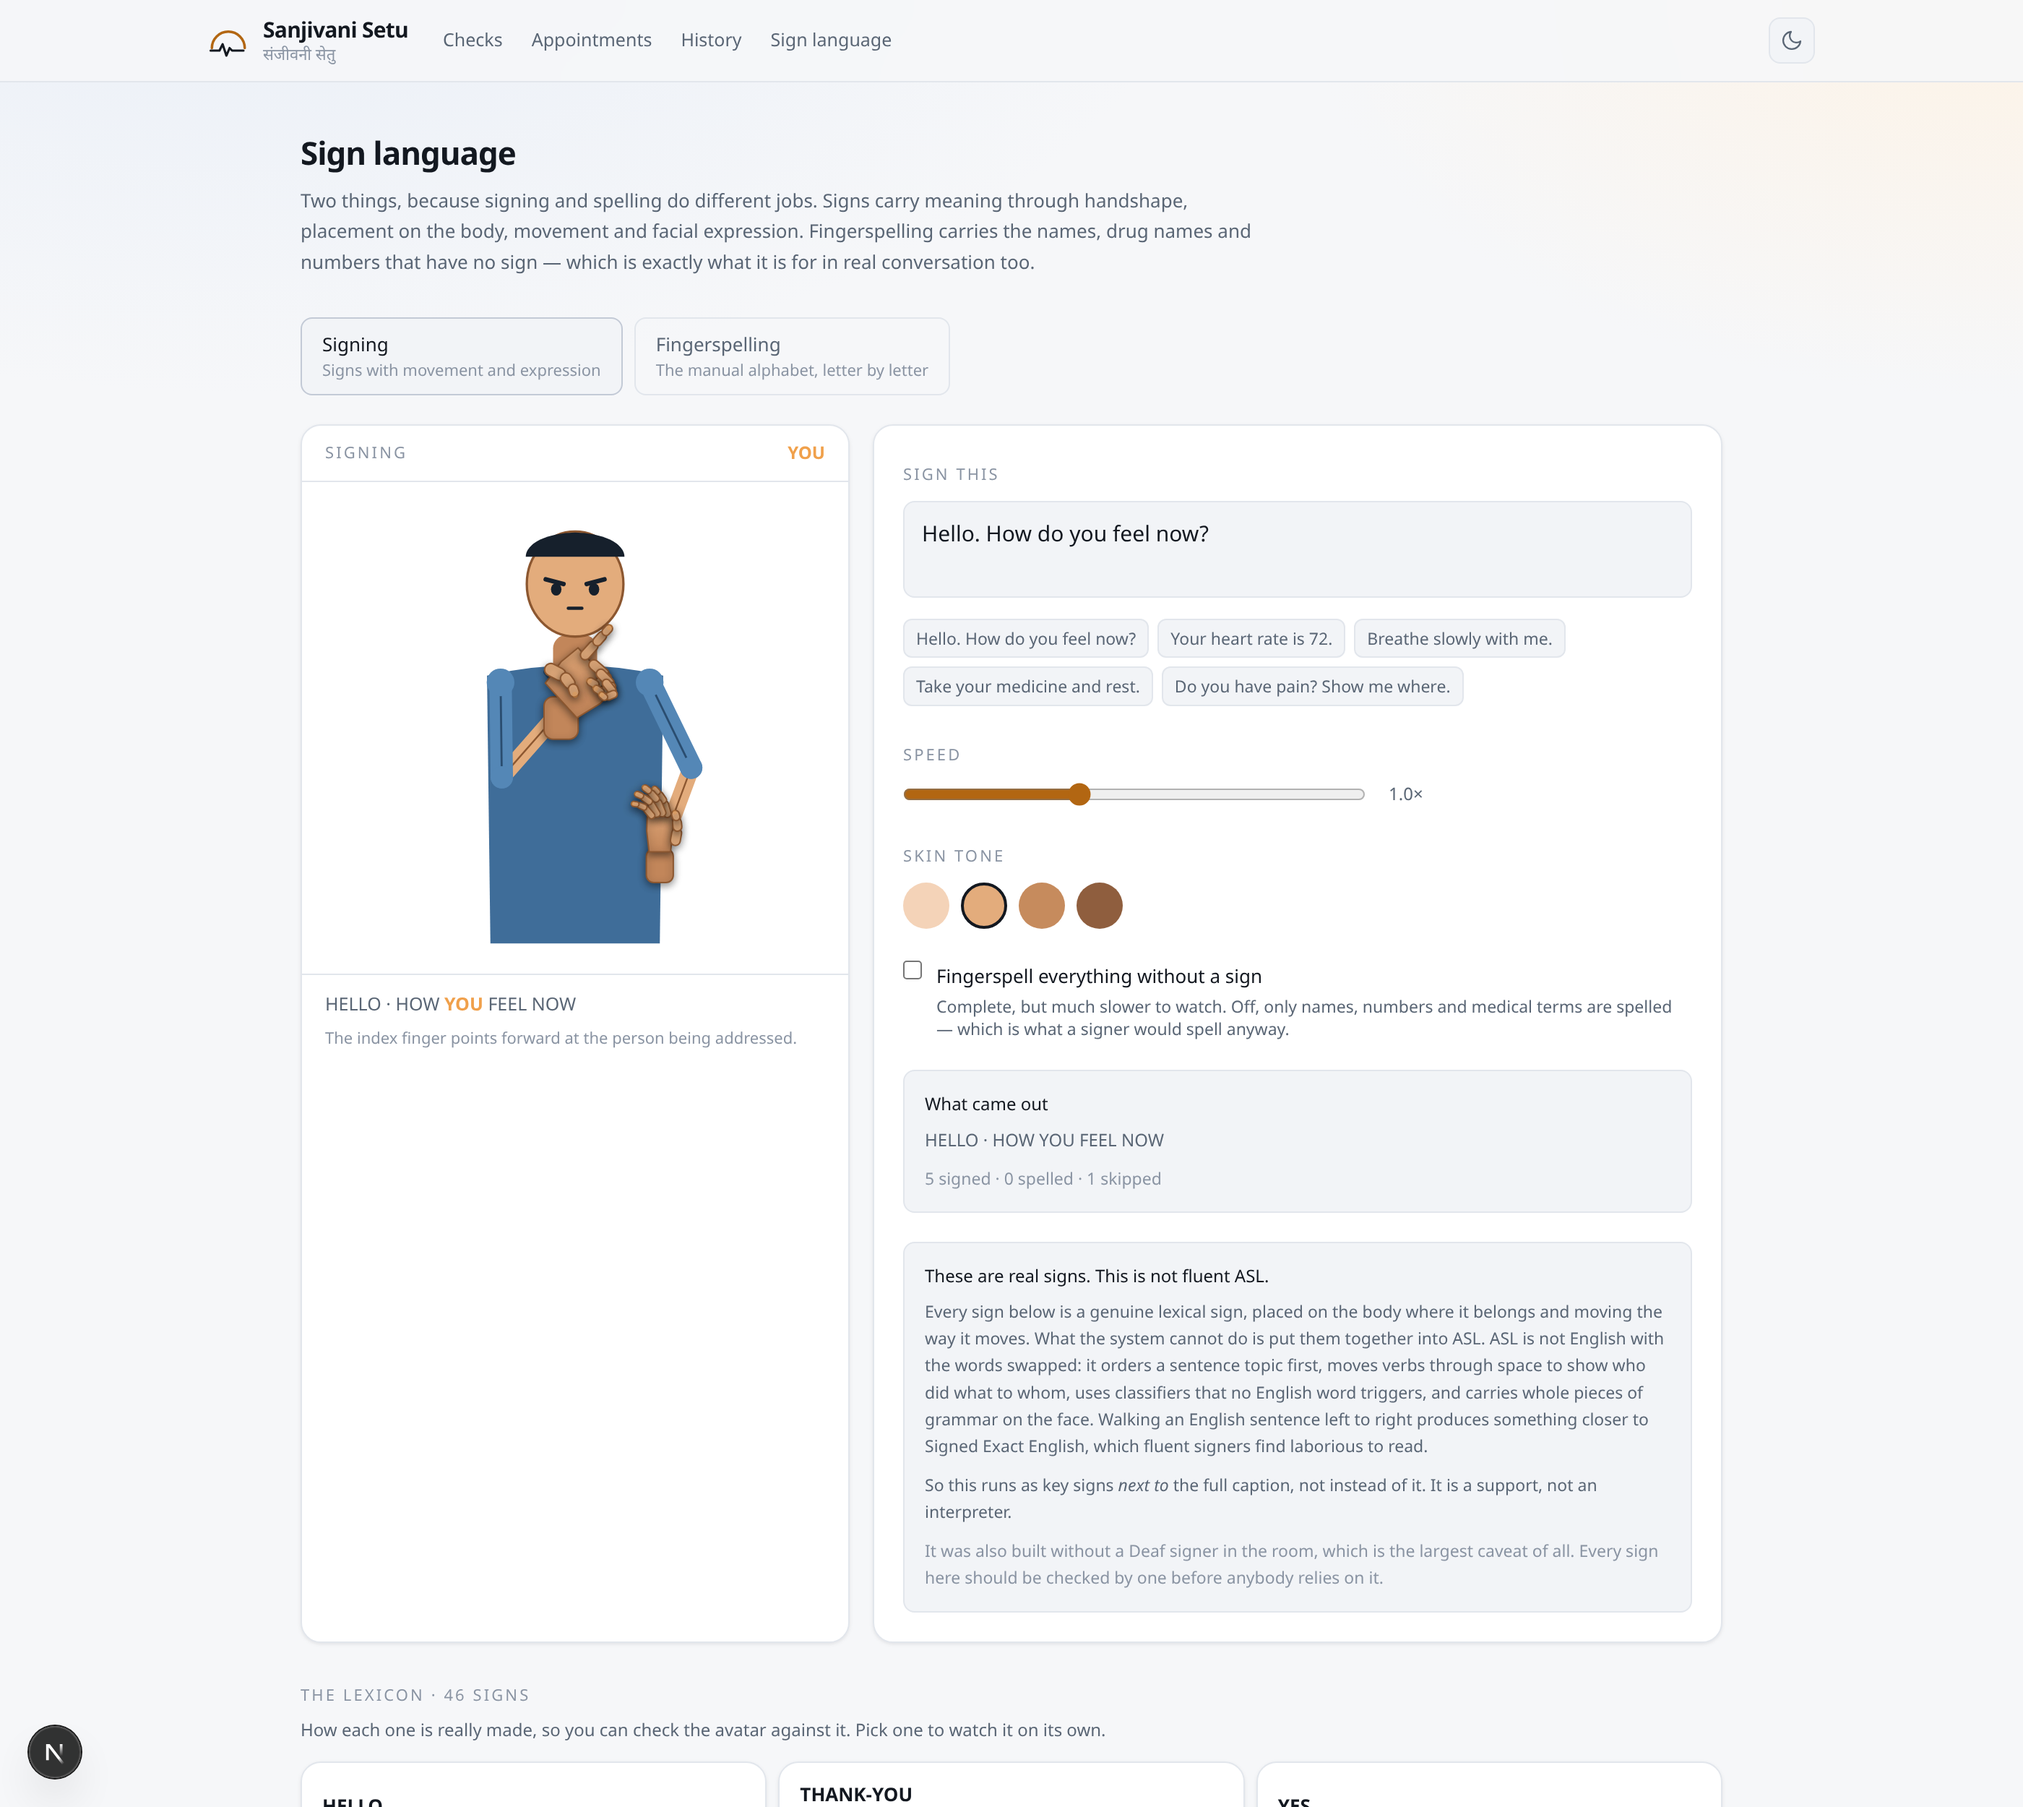
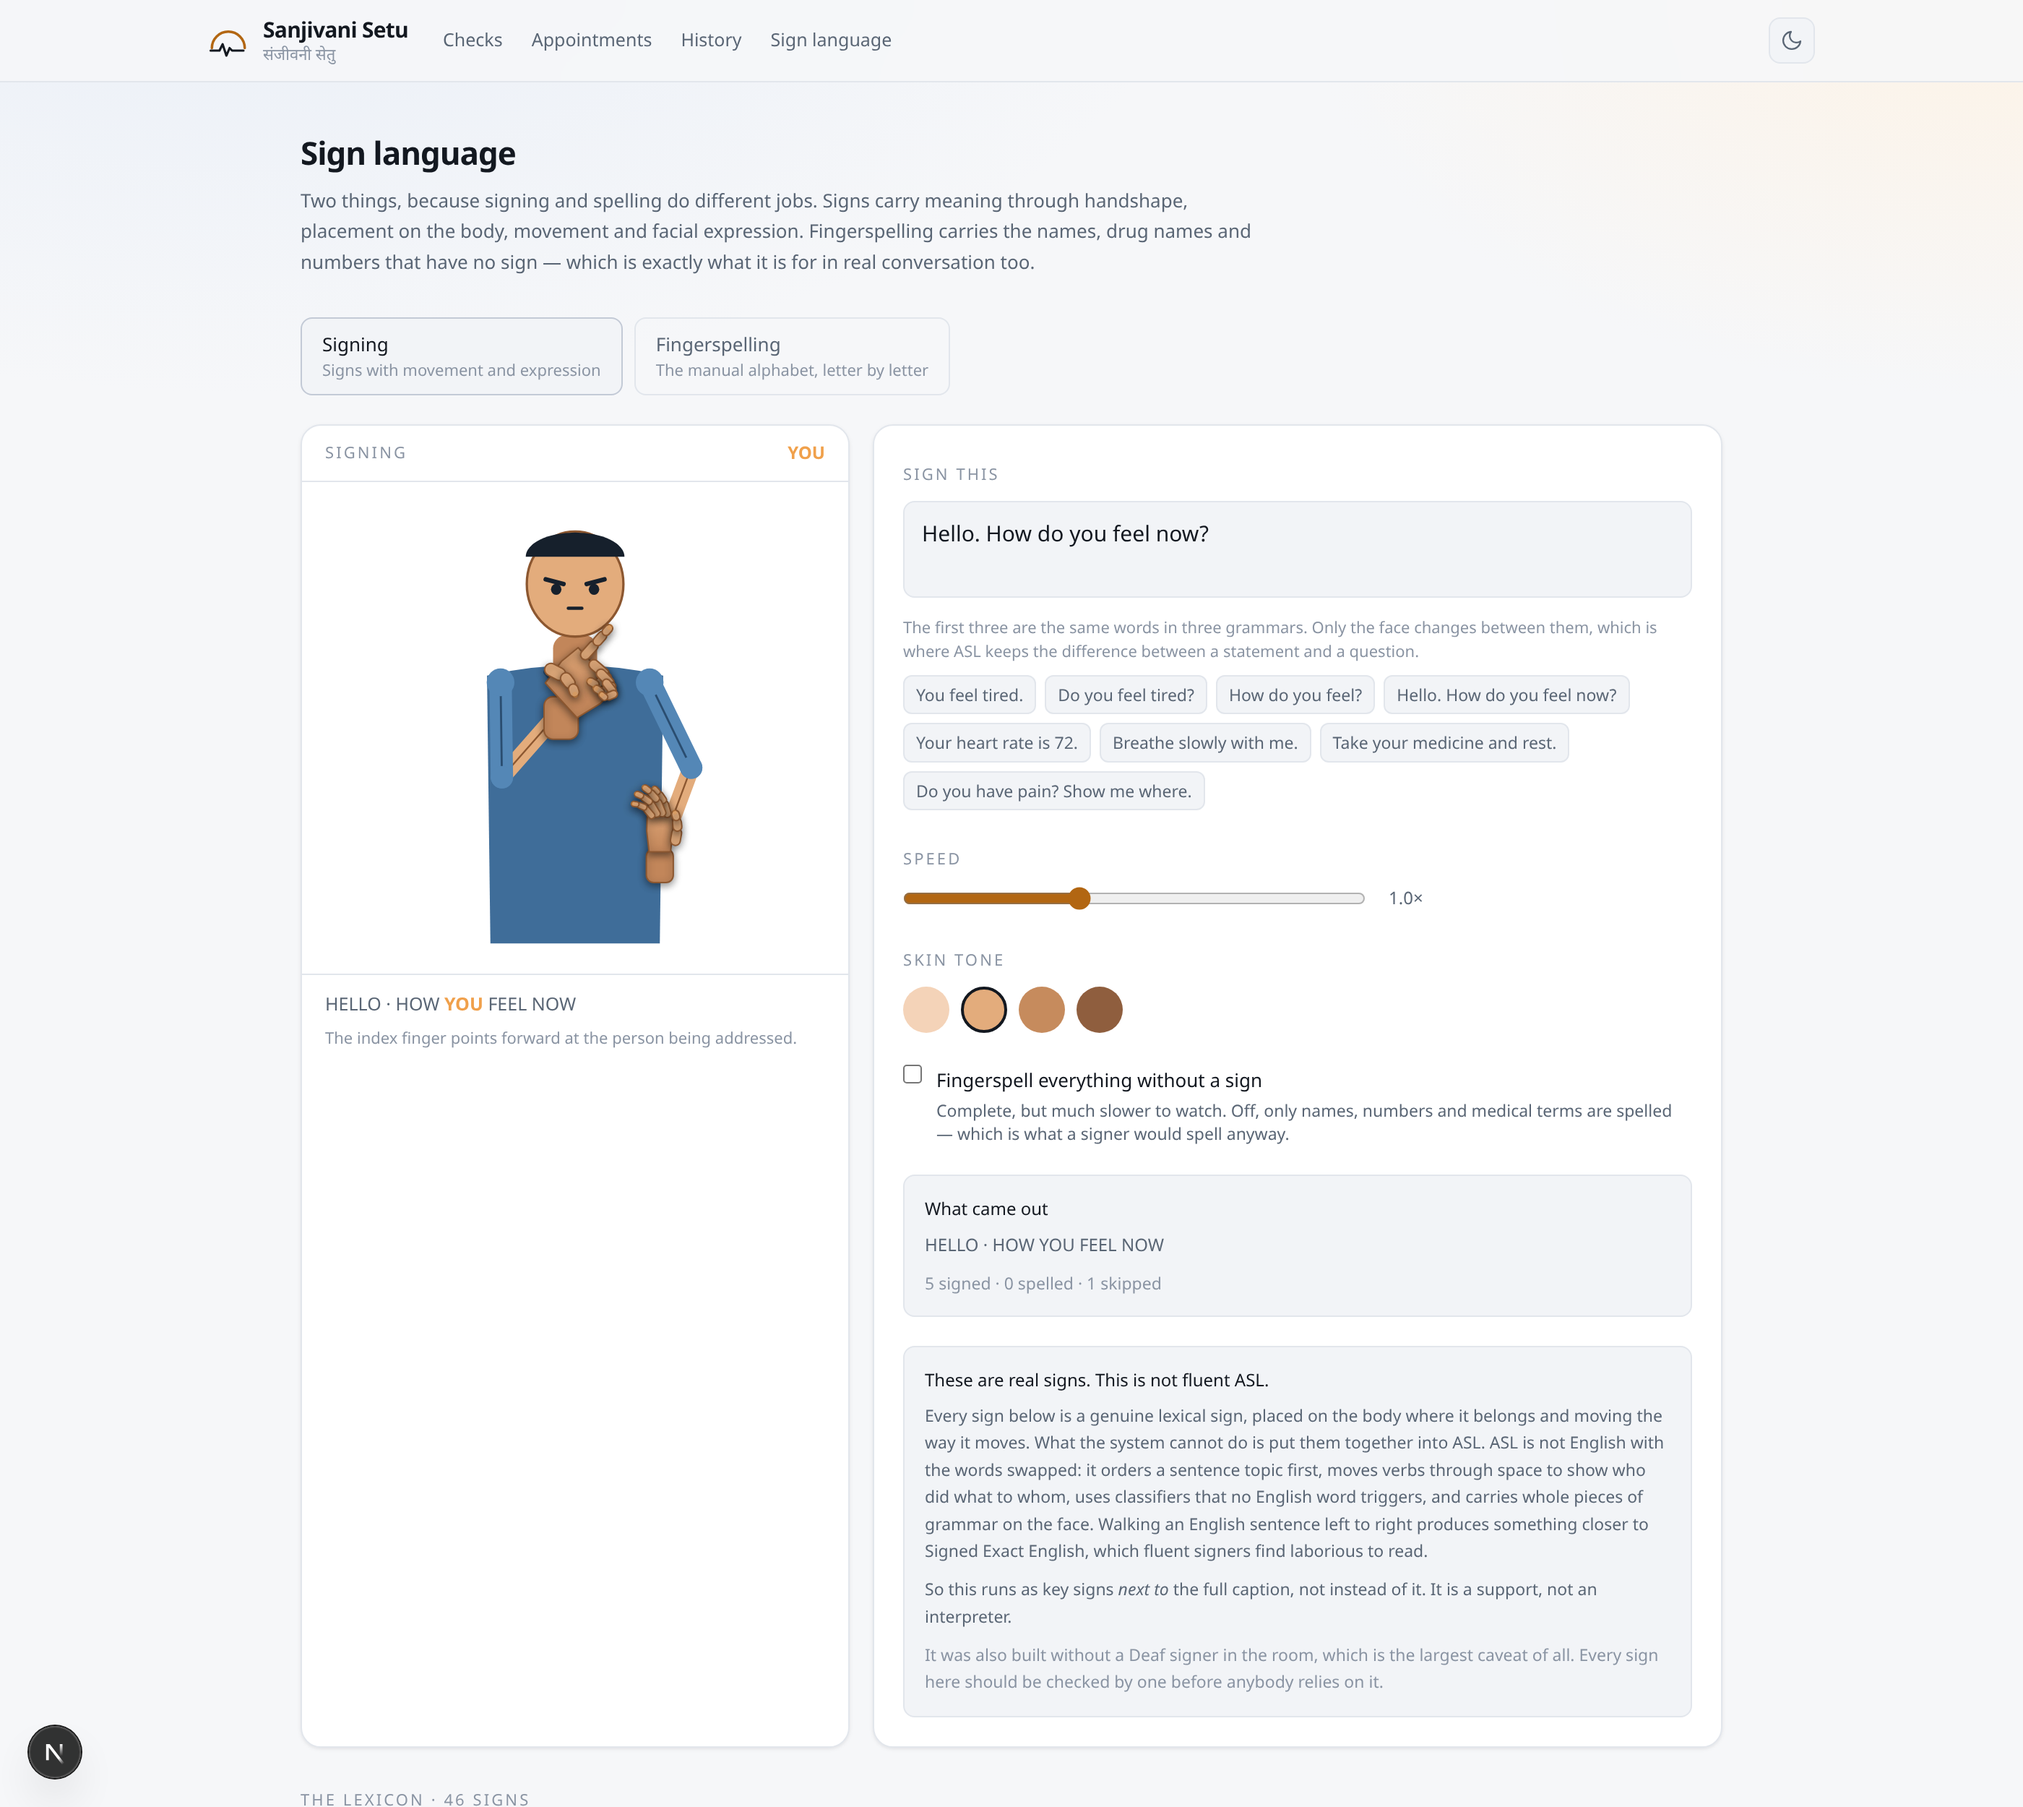
Offer the grammar contrast as one-click examples
The three-way brow contrast was only reachable by typing three sentences
by hand, which meant nobody would ever see it. The first three examples
are now the same words in three grammars - a statement, a yes/no question
and a wh-question - so the difference the face is carrying is visible in
about ten seconds without typing anything.

diff --git a/src/components/sign/SigningStudio.tsx b/src/components/sign/SigningStudio.tsx
@@ -16,7 +16,19 @@ import { SKIN_TONES } from "./render";
  * avatar against what they know rather than taking it on trust.
  */
 
+/*
+ * The first three are a minimal triple.
+ *
+ * Same words, three grammars: a statement, a yes/no question and a
+ * wh-question. Only the face changes between them, which is the whole point
+ * — in ASL the brows are doing the work that a question mark and word order
+ * do in English. Put side by side as one-click examples, the contrast is
+ * visible in about ten seconds without anyone having to type.
+ */
 const EXAMPLES = [
+  "You feel tired.",
+  "Do you feel tired?",
+  "How do you feel?",
   "Hello. How do you feel now?",
   "Your heart rate is 72.",
   "Breathe slowly with me.",
@@ -25,7 +37,7 @@ const EXAMPLES = [
 ];
 
 export function SigningStudio() {
-  const [text, setText] = useState(EXAMPLES[0]);
+  const [text, setText] = useState("Hello. How do you feel now?");
   const [speed, setSpeed] = useState(1);
   const [toneId, setToneId] = useState(SKIN_TONES[1].id);
   const [spellUnknown, setSpellUnknown] = useState(false);
@@ -58,6 +70,11 @@ export function SigningStudio() {
               rows={2}
               className="mt-2 w-full resize-none rounded-lg border border-[var(--border)] bg-[var(--surface-raised)] px-3 py-2.5 text-[15px] text-[var(--foreground)] outline-none focus:border-[var(--border-strong)]"
             />
+            <span className="mt-1.5 block text-[11px] text-[var(--faint)]">
+              The first three are the same words in three grammars. Only the
+              face changes between them, which is where ASL keeps the
+              difference between a statement and a question.
+            </span>
             <span className="mt-2 flex flex-wrap gap-1.5">
               {EXAMPLES.map((example) => (
                 <button
